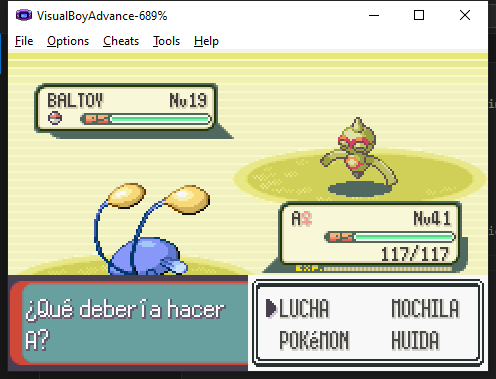
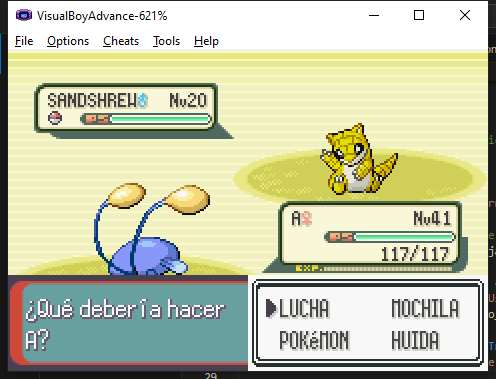
Agregando el metodo de emparejamiento

diff --git a/main.py b/main.py
@@ -1,18 +1,31 @@
 from emulador import ventana
 from acciones import buscar_pokemon, huir, presionar_b
 from screenshot import captura_pantalla
-import time
+from emparejamiento import metodo_emparejamiento
+import time, cv2
 
 def main():
+    umbral= 0.8
+    combate= cv2.imread("C:/Users/arnov/Documents/Python/Shiny_Salvaje/Ruta/combate.PNG")
     valor, dimension= ventana()
+
     if valor == True:
         buscar_pokemon()
         time.sleep(1) #Segundos de aparicion del pokemon salvaje 
         presionar_b()
         time.sleep(1)
         captura_pantalla(dimension)
+        entorno= cv2.imread("C:/Users/arnov/Documents/Python/Shiny_Salvaje/Captura/captura_escene.png")
+        
+        #se verifica si entro en combate o no
+        combate_presente= metodo_emparejamiento(entorno, combate, umbral)
+        if combate_presente:
+            for i in range(3): #Ajustar al numero de pokemon que aparece  por rutas
+                sprite= cv2.imread("C:/Users/arnov/Documents/Python/Shiny_Salvaje/Ruta/Desierto/{}.PNG".format(i))
+                pokemon_presente= metodo_emparejamiento(entorno, sprite, umbral)
 
-  
+                if pokemon_presente == True:
+                    print("No parece que sea shiny")
 
 if __name__ == '__main__':
     main()

diff --git a/emparejamiento.py b/emparejamiento.py
@@ -1,0 +1,22 @@
+import cv2
+import numpy as np
+
+def metodo_emparejamiento(imagen_escena, sprite, umbral):
+    # Convertir imágenes a escala de grises
+    imagen_escena_gris = cv2.cvtColor(imagen_escena, cv2.COLOR_BGR2GRAY)
+    sprite_gris = cv2.cvtColor(sprite, cv2.COLOR_BGR2GRAY)
+
+    # Realizar la coincidencia de plantillas
+    resultado_correlacion = cv2.matchTemplate(imagen_escena_gris, sprite_gris, cv2.TM_CCOEFF_NORMED)
+
+    # Encontrar las ubicaciones donde la coincidencia es superior al umbral
+    loc = np.where(resultado_correlacion >= umbral)
+
+    # Dibujar rectángulos alrededor de las coincidencias encontradas
+    for pt in zip(*loc[::-1]):
+        cv2.rectangle(imagen_escena, pt, (pt[0] + sprite.shape[1], pt[1] + sprite.shape[0]), (0, 255, 0), 2)
+
+    # Si hay al menos una coincidencia, el sprite está presente
+    sprite_presente = len(loc[0]) > 0
+
+    return sprite_presente

diff --git a/acciones.py b/acciones.py
@@ -3,7 +3,7 @@ import time
 
 def buscar_pokemon():
     #saltos en bici acrobatica
-    time.sleep(1)
+    time.sleep(2)
     pyautogui.keyDown('x')
     time.sleep(4)
     pyautogui.keyUp('x')
